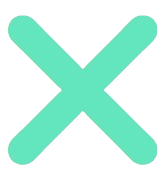
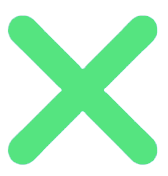
scrollBar

diff --git a/css/style.css b/css/style.css
@@ -150,11 +150,32 @@ img {
 }
 
 .salir:hover {
-    color: red;
+    color: rgb(224, 5, 5);
+}
+
+::-webkit-scrollbar {
+    width: 10px;
+}
+
+::-webkit-scrollbar-track-piece:start {
+    background: transparent;
+    margin-top: 15px;
+}
+
+::-webkit-scrollbar-track-piece:end {
+    background: transparent;
+    margin-bottom: 90px;
+}
+
+::-webkit-scrollbar-thumb {
+    width: 10px;
+    background-color: grey;
+    border-radius: 30px;
 }
 
 .boton2:hover {
-    color: grey;
+    /* color: grey; */
+    color: #55e480;
 }
 
 .navbar {
@@ -450,10 +471,10 @@ ul {
 
 @media screen and (min-width: 1900px) {
     .boton2 {
-        font-size: 30px;
+        font-size: 26px;
     }
     .salir {
-        font-size: 30px;
+        font-size: 26px;
         margin-top: 1.5%;
     }
     .logo {
